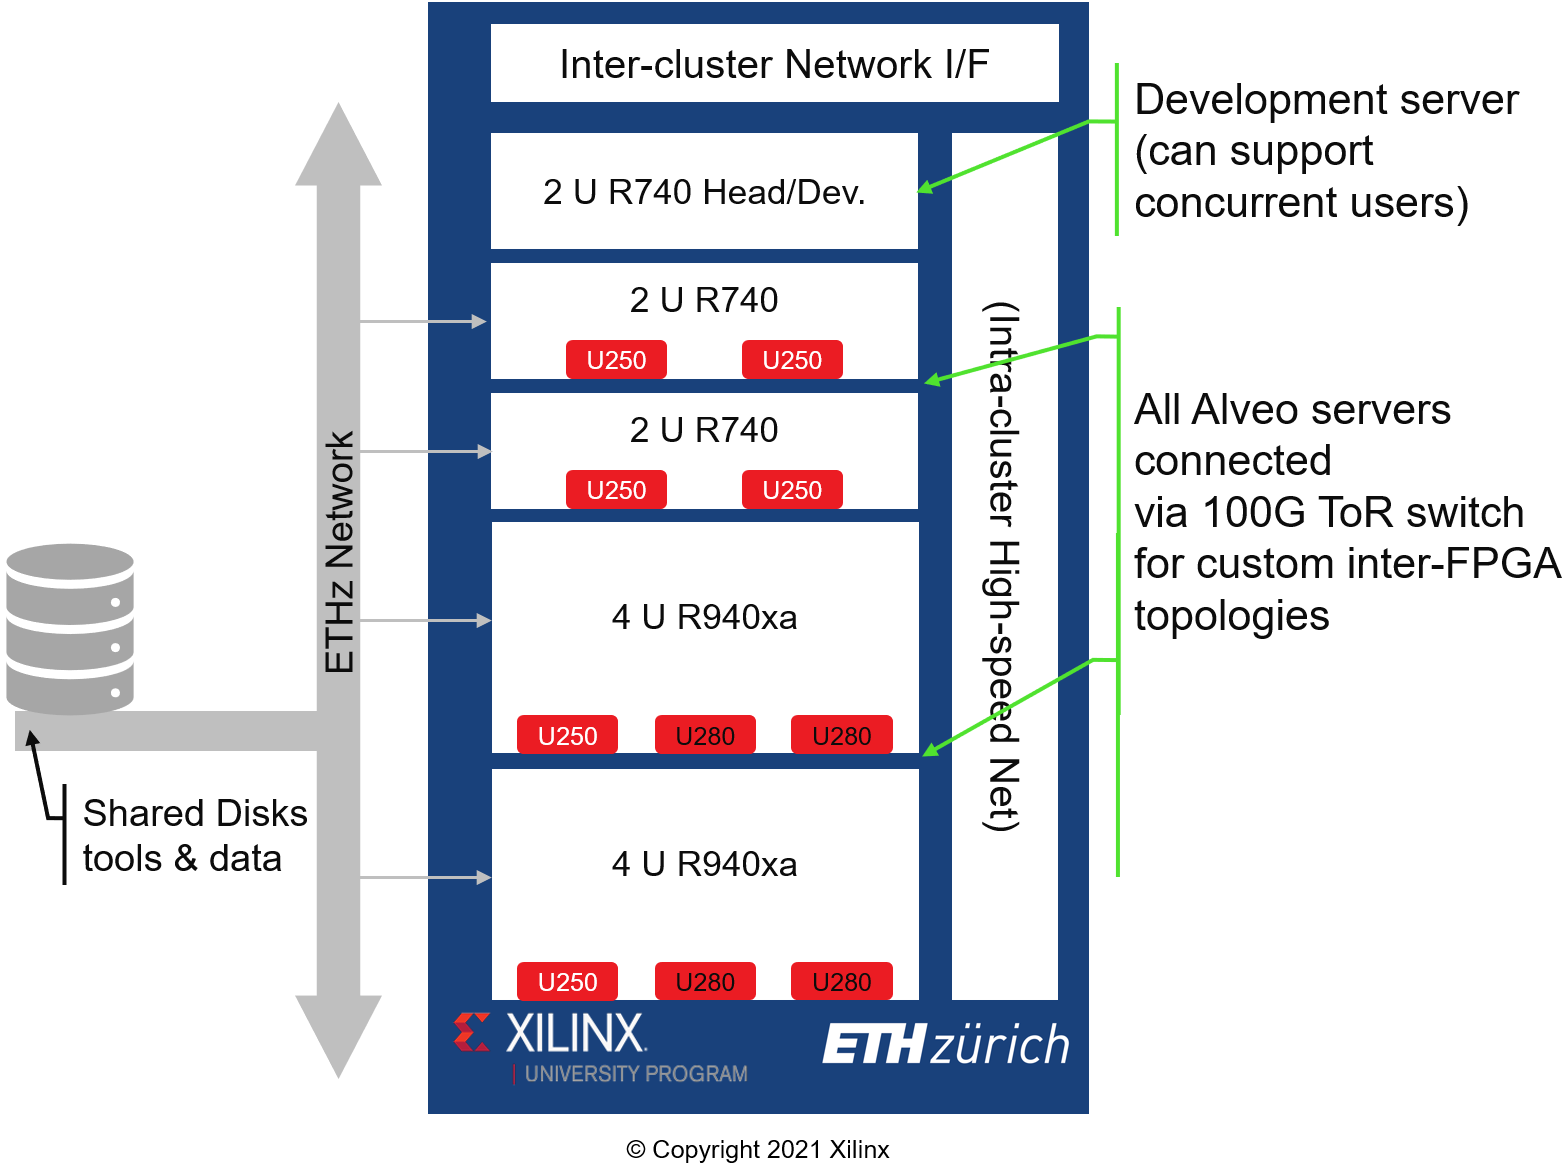
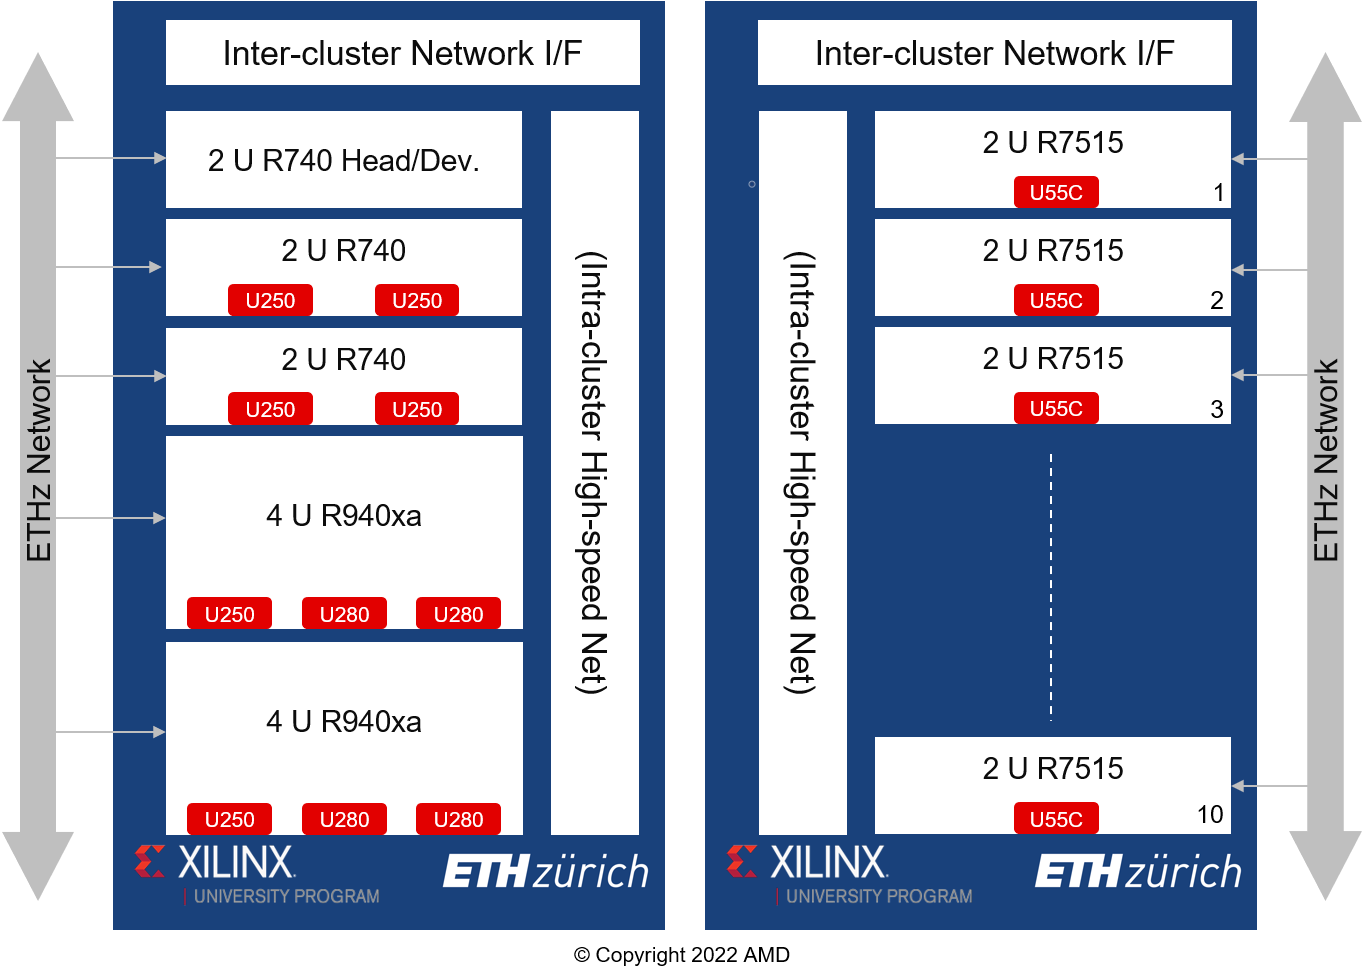
Add ethz extension (#51)

diff --git a/docs/ethz.md b/docs/ethz.md
@@ -4,21 +4,19 @@ The cluster at ETH Zurich provides the infrastructure to research in systems, ar
 
 The head of the ETH Zurich HACC is [Prof. Gustavo Alonso](https://inf.ethz.ch/people/person-detail.alonso.html) from the [Systems Group](https://systems.ethz.ch/) in the  Department of Computer Science at ETH Zurich.  
 
-# Infrastructure
+## Infrastructure
 
-The ETH Zurich cluster consists of five servers one for development and four for deployment. Deployment servers host a mix of Alveo U250 and Alveo U280 as shown in the image below
+The ETH Zurich cluster consists of fifteen servers one for development and fourteen for deployment. Four deployment servers host a mix of [Alveo U250](https://www.xilinx.com/products/boards-and-kits/alveo/u250.html) and [Alveo U280](https://www.xilinx.com/products/boards-and-kits/alveo/u280.html), whereas, the other ten servers host [Alveo U55C](https://www.xilinx.com/products/boards-and-kits/alveo/u55c.html) as shown in the image below
 
-<img src="/xacc/images/ethz/xacc_ethz.png" alt="ETH Zurich Network" class="responsive"> 
+<img src="/xacc/images/ethz/xacc_ethz.png" alt="ETH Zurich Network" class="responsive">
 
-In terms of networking communication, each Alveo cards has two 100 Gbps interfaces, one is connected to a switch and the another connected to its neighbor this is depicted in the image below
-
-<img src="/xacc/images/ethz/xacc_ethz_network.png" alt="ETH Zurich Network" class="responsive">
+In terms of networking communication, each Alveo cards has two 100 Gbps interfaces, both of them are connected to a switch
 
 > Note: hardware and network configuration can change at any time
 
 Once you are approved for the HACC program, details on how to access the ETH Zurich HACC and the other HACCs can be found on the [HACC members site](https://www.xilinx.com/member/xup_research_clusters.html).
 
-For more information on the hardware configuration and software, see the [ETH Zurich HACC](https://systems.ethz.ch/research/data-processing-on-modern-hardware/hacc.html) webpage. 
+For more information on the hardware configuration and software, see the [ETH Zurich HACC](https://systems.ethz.ch/research/data-processing-on-modern-hardware/hacc.html) webpage.
 
 ---------------------------------------
 <p align="center">Copyright&copy; 2022 Advanced Micro Devices</p>
